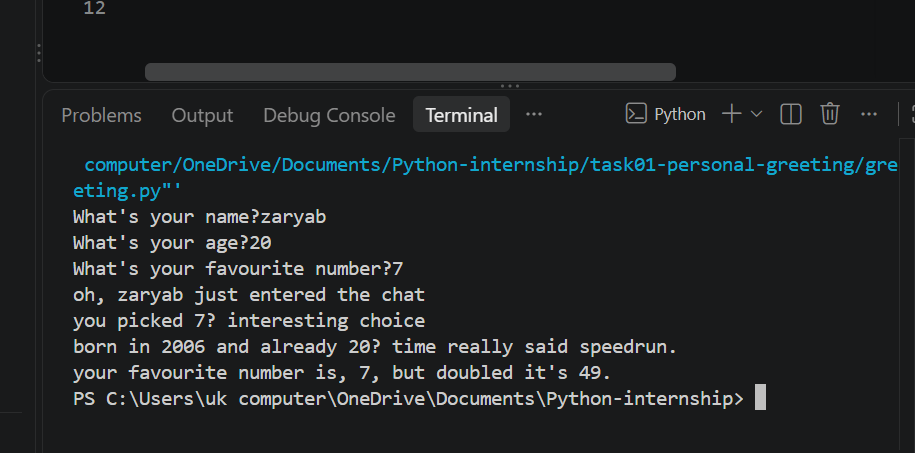
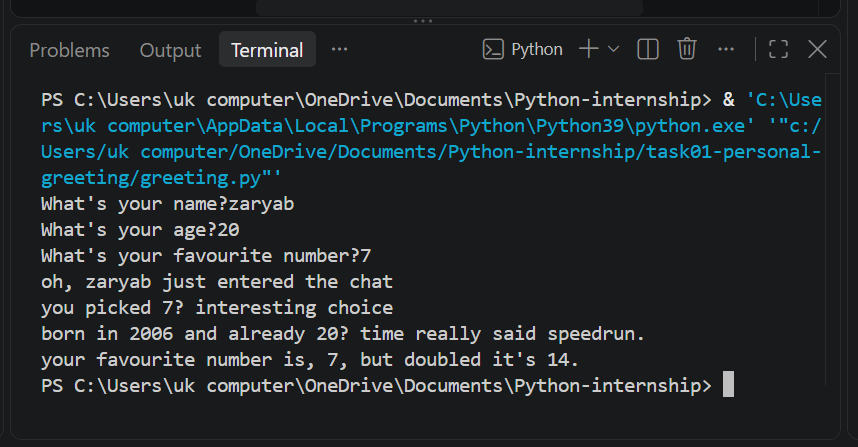
correction after revision

diff --git a/task01-personal-greeting/greeting.py b/task01-personal-greeting/greeting.py
@@ -3,7 +3,7 @@ age=int(input("What's your age?")) #asking user for age
 fav_number=int(input("What's your favourite number?")) #asking user for favourite number
 
 birth_year=2026-age          #calculating the birth year
-newfavourite_num=fav_number*fav_number  #doubling the favourite number
+newfavourite_num=fav_number*2 #doubling the favourite number
 
 print(f"oh, {name} just entered the chat")
 print(f"you picked {fav_number}? interesting choice")
